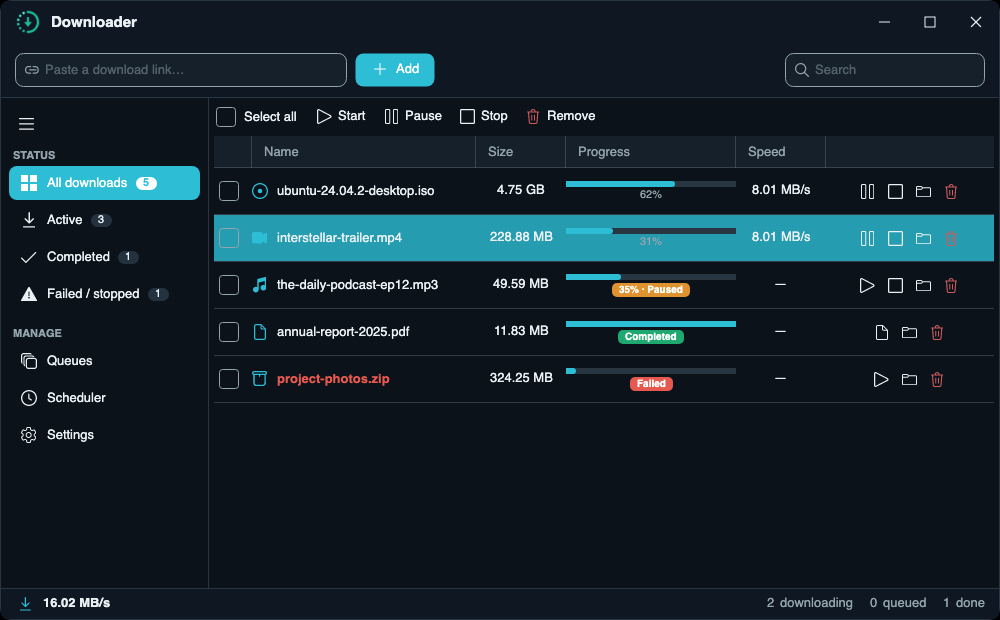
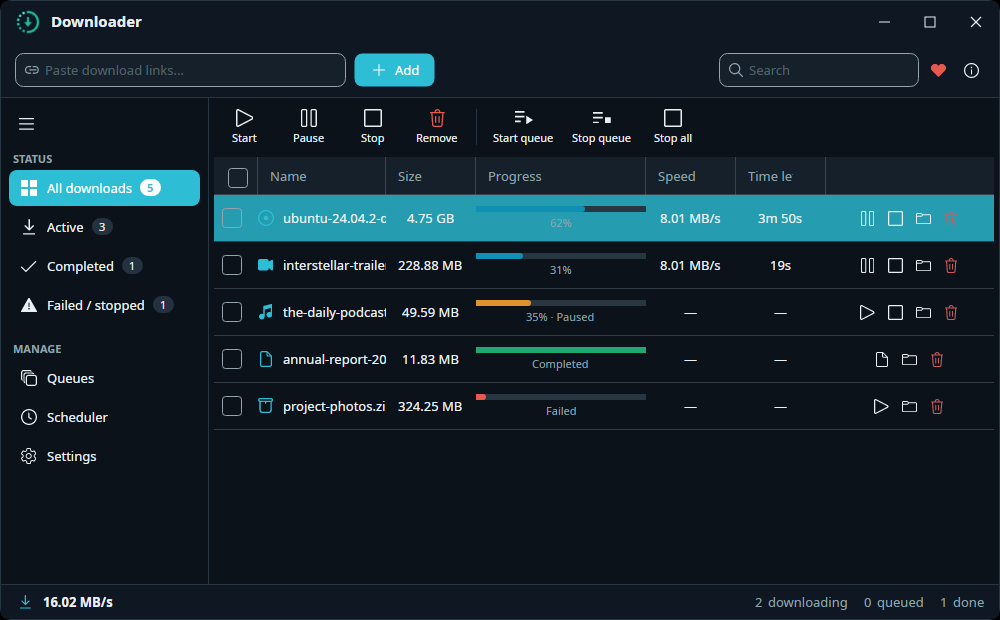
fix: render select-all in header (overlay), enable toolbar on row selection, center About left column
- Select-all checkbox now visible: overlaid on the first column's header band (this DataGrid won't render a control inside a column header) — ColumnHeaderHeight=38 + fixed 44px checkbox column keep it aligned
- Toolbar Start/Pause/Stop/Remove now enable when a row is selected (highlighted) OR checked: view pushes DataGrid SelectedItems to the VM (SetGridSelection); SelectedTargets = checked ∪ highlighted
- About dialog: left column centered, removed the repo website link
- +1 test (grid-row selection enables bulk commands) → 93 green; screenshots regenerated; skill notes the DataGrid header-control gotcha

diff --git a/src/Downloader.Desktop/ViewModels/DownloadsViewModel.cs b/src/Downloader.Desktop/ViewModels/DownloadsViewModel.cs
@@ -107,8 +107,29 @@ public class DownloadsViewModel : ViewModelBase
             Command = ReactiveCommand.Create(() => _manager.PauseQueue(q))
         }).ToList() ?? Enumerable.Empty<QueueActionTarget>();
 
-    /// <summary>True while at least one row is checked — drives the per-row bulk buttons' enabled state.</summary>
-    public bool HasSelection => _manager?.Items.Any(i => i.IsChecked) == true;
+    // Rows highlighted in the DataGrid (independent of the checkboxes). Pushed in from the view's
+    // SelectionChanged so that simply selecting a row also counts as "selected" for the toolbar.
+    private readonly System.Collections.Generic.List<DownloadItemViewModel> _gridSelection = new();
+
+    /// <summary>Called by the view when the DataGrid's highlighted rows change.</summary>
+    public void SetGridSelection(System.Collections.IList items)
+    {
+        _gridSelection.Clear();
+        if (items != null)
+            foreach (var it in items)
+                if (it is DownloadItemViewModel vm)
+                    _gridSelection.Add(vm);
+        RaiseSelectionChanged();
+    }
+
+    /// <summary>The rows the toolbar acts on: checked rows plus any DataGrid-highlighted rows.</summary>
+    private System.Collections.Generic.List<DownloadItemViewModel> SelectedTargets() =>
+        _manager == null
+            ? new System.Collections.Generic.List<DownloadItemViewModel>()
+            : _manager.Items.Where(i => i.IsChecked || _gridSelection.Contains(i)).ToList();
+
+    /// <summary>True while at least one row is checked OR highlighted — drives the bulk buttons' enabled state.</summary>
+    public bool HasSelection => SelectedTargets().Count > 0;
 
     /// <summary>
     /// Grid-header tri-state checkbox: true = all visible rows checked, false = none, null = some.
@@ -207,7 +228,7 @@ public class DownloadsViewModel : ViewModelBase
         // Batch so a large selection re-filters the grid once, not once per row (avoids UI freeze).
         _manager.Batch(() =>
         {
-            foreach (var item in _manager.Items.Where(i => i.IsChecked).ToList())
+            foreach (var item in SelectedTargets())
                 action(item);
         });
         Refresh();
@@ -219,7 +240,7 @@ public class DownloadsViewModel : ViewModelBase
             return;
         _manager.Batch(() =>
         {
-            foreach (var item in _manager.Items.Where(i => i.IsChecked).ToList())
+            foreach (var item in SelectedTargets())
                 _ = _manager.Remove(item);
         });
         Refresh();

diff --git a/src/Downloader.Desktop.Tests/AppTests.cs b/src/Downloader.Desktop.Tests/AppTests.cs
@@ -313,6 +313,26 @@ public class AppTests
     }
 
     [AvaloniaFact]
+    public void Grid_row_selection_enables_bulk_commands_without_checkboxes()
+    {
+        var manager = new DownloadManager();
+        manager.Initialize(Config.New());
+        var view = new DownloadsViewModel(manager);
+        var a = manager.Add(new DownloadItem { Url = "https://host/a.zip" }, autoStart: false);
+
+        Assert.False(view.HasSelection);
+
+        // Selecting (highlighting) a row in the DataGrid counts as selected — no checkbox needed (#3).
+        view.SetGridSelection(new System.Collections.Generic.List<object> { a });
+        Assert.True(view.HasSelection);
+        Assert.True(((System.Windows.Input.ICommand)view.StartSelectedCommand).CanExecute(null));
+        Assert.False(a.IsChecked); // the checkbox stays unchecked
+
+        view.SetGridSelection(null);
+        Assert.False(view.HasSelection);
+    }
+
+    [AvaloniaFact]
     public void TimeLeft_reflects_remaining_over_speed()
     {
         var item = new DownloadItem { Status = DownloadStatus.Running };

diff --git a/src/Downloader.Desktop/Views/DownloadsView.axaml.cs b/src/Downloader.Desktop/Views/DownloadsView.axaml.cs
@@ -15,6 +15,13 @@ public partial class DownloadsView : UserControl
         InitializeComponent();
     }
 
+    private void OnSelectionChanged(object sender, SelectionChangedEventArgs e)
+    {
+        // A highlighted row counts as "selected" for the toolbar, even when its checkbox is unchecked.
+        if (sender is DataGrid grid && DataContext is DownloadsViewModel vm)
+            vm.SetGridSelection(grid.SelectedItems);
+    }
+
     private async void OnRowDoubleTapped(object sender, TappedEventArgs e)
     {
         if (e.Source is not Visual v)

diff --git a/src/Downloader.Desktop/ViewModels/AboutViewModel.cs b/src/Downloader.Desktop/ViewModels/AboutViewModel.cs
@@ -50,9 +50,6 @@ public class AboutViewModel : ViewModelBase
     /// <summary>The clean 3-part version shown under the title (same value the update check uses).</summary>
     public string VersionText => string.Format(Localizer.Instance["About_Version"], UpdateService.CurrentVersion);
 
-    /// <summary>Repo address shown as the website link in the dialog.</summary>
-    public string WebsiteText => "github.com/bezzad/Downloader.Desktop";
-
     private static void Open(string url)
     {
         try

diff --git a/.claude/skills/downloader-desktop/SKILL.md b/.claude/skills/downloader-desktop/SKILL.md
@@ -75,7 +75,8 @@ Treat this file as a living cache. **Whenever you discover something non-obvious
 - **About dialog**: `Views/AboutView` + `ViewModels/AboutViewModel`, opened via `DialogHelper.ShowAbout()` (own Window, transparent+rounded like `DownloadDetailsView`, Esc closes). Left = logo/title/version/donate/website; right = three clickable `Button.about` section cards + GitHub/Telegram/Email contact `Button.icon`s. All links open with `Process.Start(UseShellExecute=true)`. Canonical links are `const`s on `AboutViewModel` (RepoUrl/EngineRepoUrl/DonateUrl/TelegramUrl/Email…) so they're testable without constructing the VM (its `VersionText` touches `Localizer` → needs headless). **Original layout — never name or clone another download app** (repo design rule).
 - **Top-bar Donate(♥)/About(i)**: small `Button.icon`s in `MainWindow` top bar; `MainViewModel.DonateCommand` opens `AboutViewModel.DonateUrl` (repo `Donate.md`), `ShowAboutCommand` → `DialogHelper.ShowAbout`. Tether/Liberapay addresses live in repo-root `Donate.md` (sourced from the sibling `../Downloader` README).
 - **Square toolbar buttons** (`Button.tool` in App.axaml): icon-on-top/label-below (vertical StackPanel), `:disabled` → Opacity .4. Per-row bulk actions (Start/Pause/Stop/Remove) pass an `IObservable<bool>` canExecute (`this.WhenAnyValue(x => x.HasSelection)`) so they grey out when nothing is checked; Stop-All / Start-Queue / Stop-Queue take no canExecute (always enabled).
-- **Tri-state select-all in the grid header**: `bool? SelectAllState` on `DownloadsViewModel` (true=all / false=none / null=some), bound to a header `CheckBox IsThreeState="True"` in the first column's `DataGridTemplateColumn.Header`. Header bindings resolve against the page `x:DataType` (DownloadsViewModel) since the column is declared in that scope. Keep selection state live by subscribing to each row's `PropertyChanged` (IsChecked) + `manager.Items.CollectionChanged`, then raising `HasSelection`/`SelectAllState`. There is NO toolbar select-all checkbox anymore.
+- **Tri-state select-all in the grid header**: `bool? SelectAllState` on `DownloadsViewModel` (true=all / false=none / null=some). **GOTCHA: this Avalonia 12 DataGrid does NOT render a *control* placed in a column header** — only string `Header="..."` shows; a `<DataGridTemplateColumn.Header><CheckBox/></...>` (any control, even a plain TextBlock) renders blank, regardless of compiled-vs-ReflectionBinding. So the select-all `CheckBox` is **overlaid** over the first column's header band: it's a sibling of the DataGrid inside the wrapping `Panel`, `HorizontalAlignment=Left VerticalAlignment=Top Margin="14 9 0 0"`, with the DataGrid pinned to `ColumnHeaderHeight="38"` and the checkbox column `Width=44 CanUserResize=False` so the overlay stays aligned. Bound normally (page DataContext) since it's outside the column scope. Keep selection state live by subscribing to each row's `PropertyChanged` (IsChecked) + `manager.Items.CollectionChanged`. There is NO toolbar select-all checkbox.
+- **Toolbar acts on selected rows = checked OR highlighted**: the bulk buttons enable when a row is *either* checked *or* highlighted in the DataGrid. The view's `SelectionChanged` pushes `grid.SelectedItems` into `DownloadsViewModel.SetGridSelection(...)`; `SelectedTargets()` = `Items.Where(IsChecked || _gridSelection.Contains(i))`; `HasSelection` drives the commands' `WhenAnyValue` canExecute. (Headless screenshot capture can't reproduce real row-selection — a click reads as hover — so verify this via a unit test calling `SetGridSelection`, not a screenshot.)
 - **Time-left column**: `DownloadItemViewModel.TimeLeftText` = remaining ÷ Speed (only while Running), formatted by `public static FormatDuration(double seconds)` ("45s"/"1m 23s"/"2h 5m"; "—" for non-finite/idle). Re-raised from the Speed and Status setters.
 - **State → only the progress bar recolors**: bind `ProgressBar.Foreground="{Binding Status, Converter=StatusToBrushConverter}"` and show `StatusText` ("62% · Paused") under it. The row **name keeps one consistent style** across states (removed the old `TextBlock.failed`/`.pending` name classes + the colored badge) — author preference.
 - **Browser extension** lives at `src/browser-extension/` (NOT a .NET project, excluded from build/tests): cross-browser **MV3**, `manifest.json` (Chrome/Edge, `background.service_worker`) + `manifest.firefox.json` (`background.scripts` + gecko id). `background.js` guards `importScripts` (`if (typeof importScripts === "function")`) so the same file works as a Chrome SW (imports `common.js`) and a Firefox event page (manifest loads `common.js` first). It does context menus + `webRequest.onHeadersReceived` media sniffing (video/audio/HLS `.m3u8`; YouTube/DRM unsupported) + forwards to the app via `GET http://127.0.0.1:15151/add?url=…`. The app listener answers `/ping` (200) for the popup's status dot. Resize icons with Pillow (`Image.LANCZOS`) — no ImageMagick on this box. Store deploy is the author's (needs dev accounts); Safari intentionally skipped.
